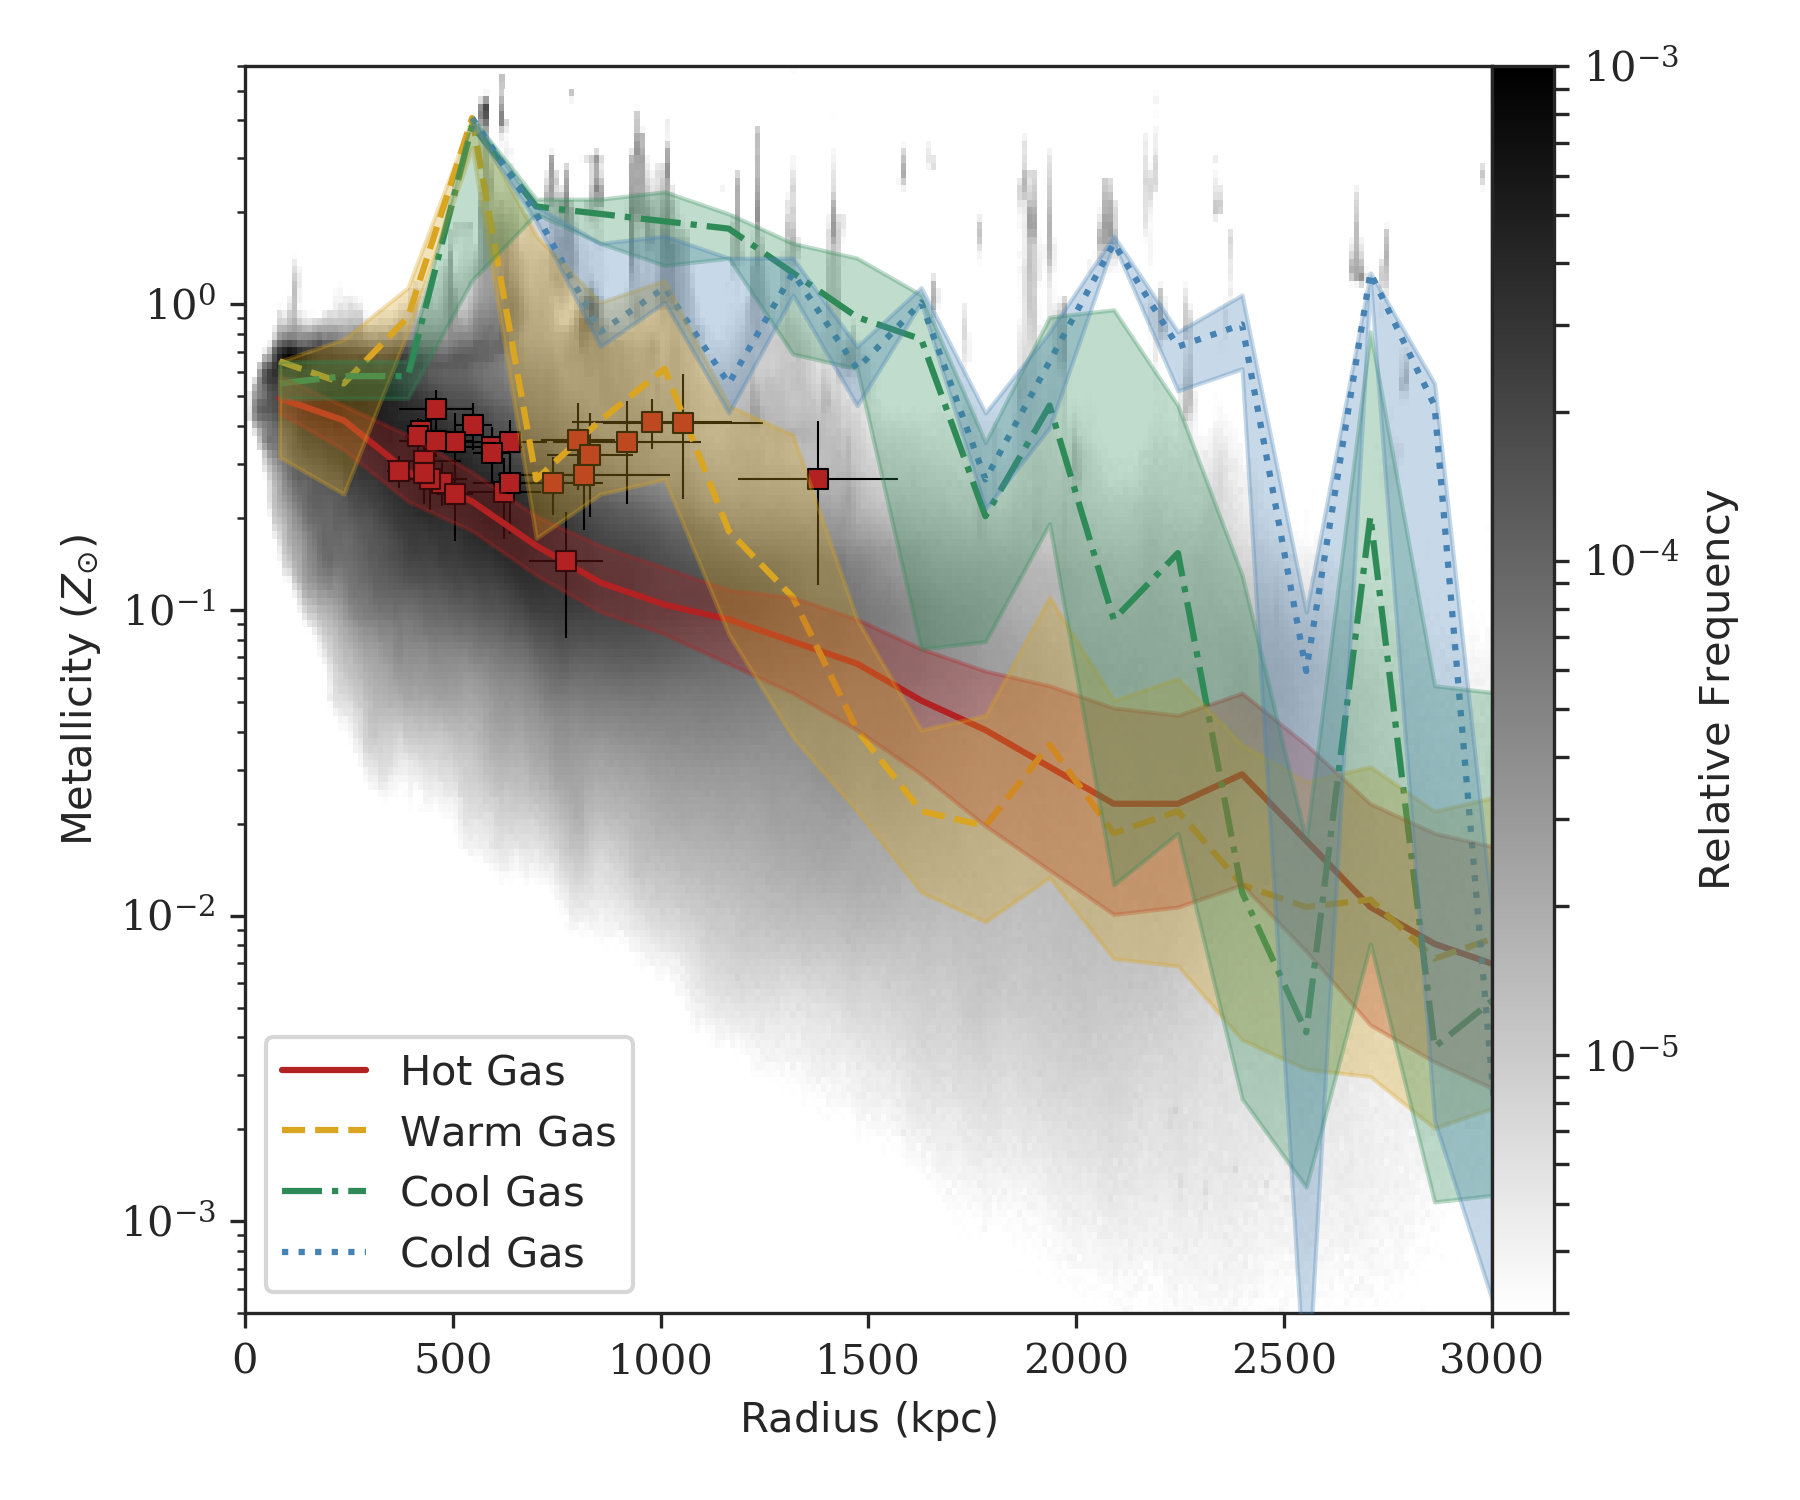
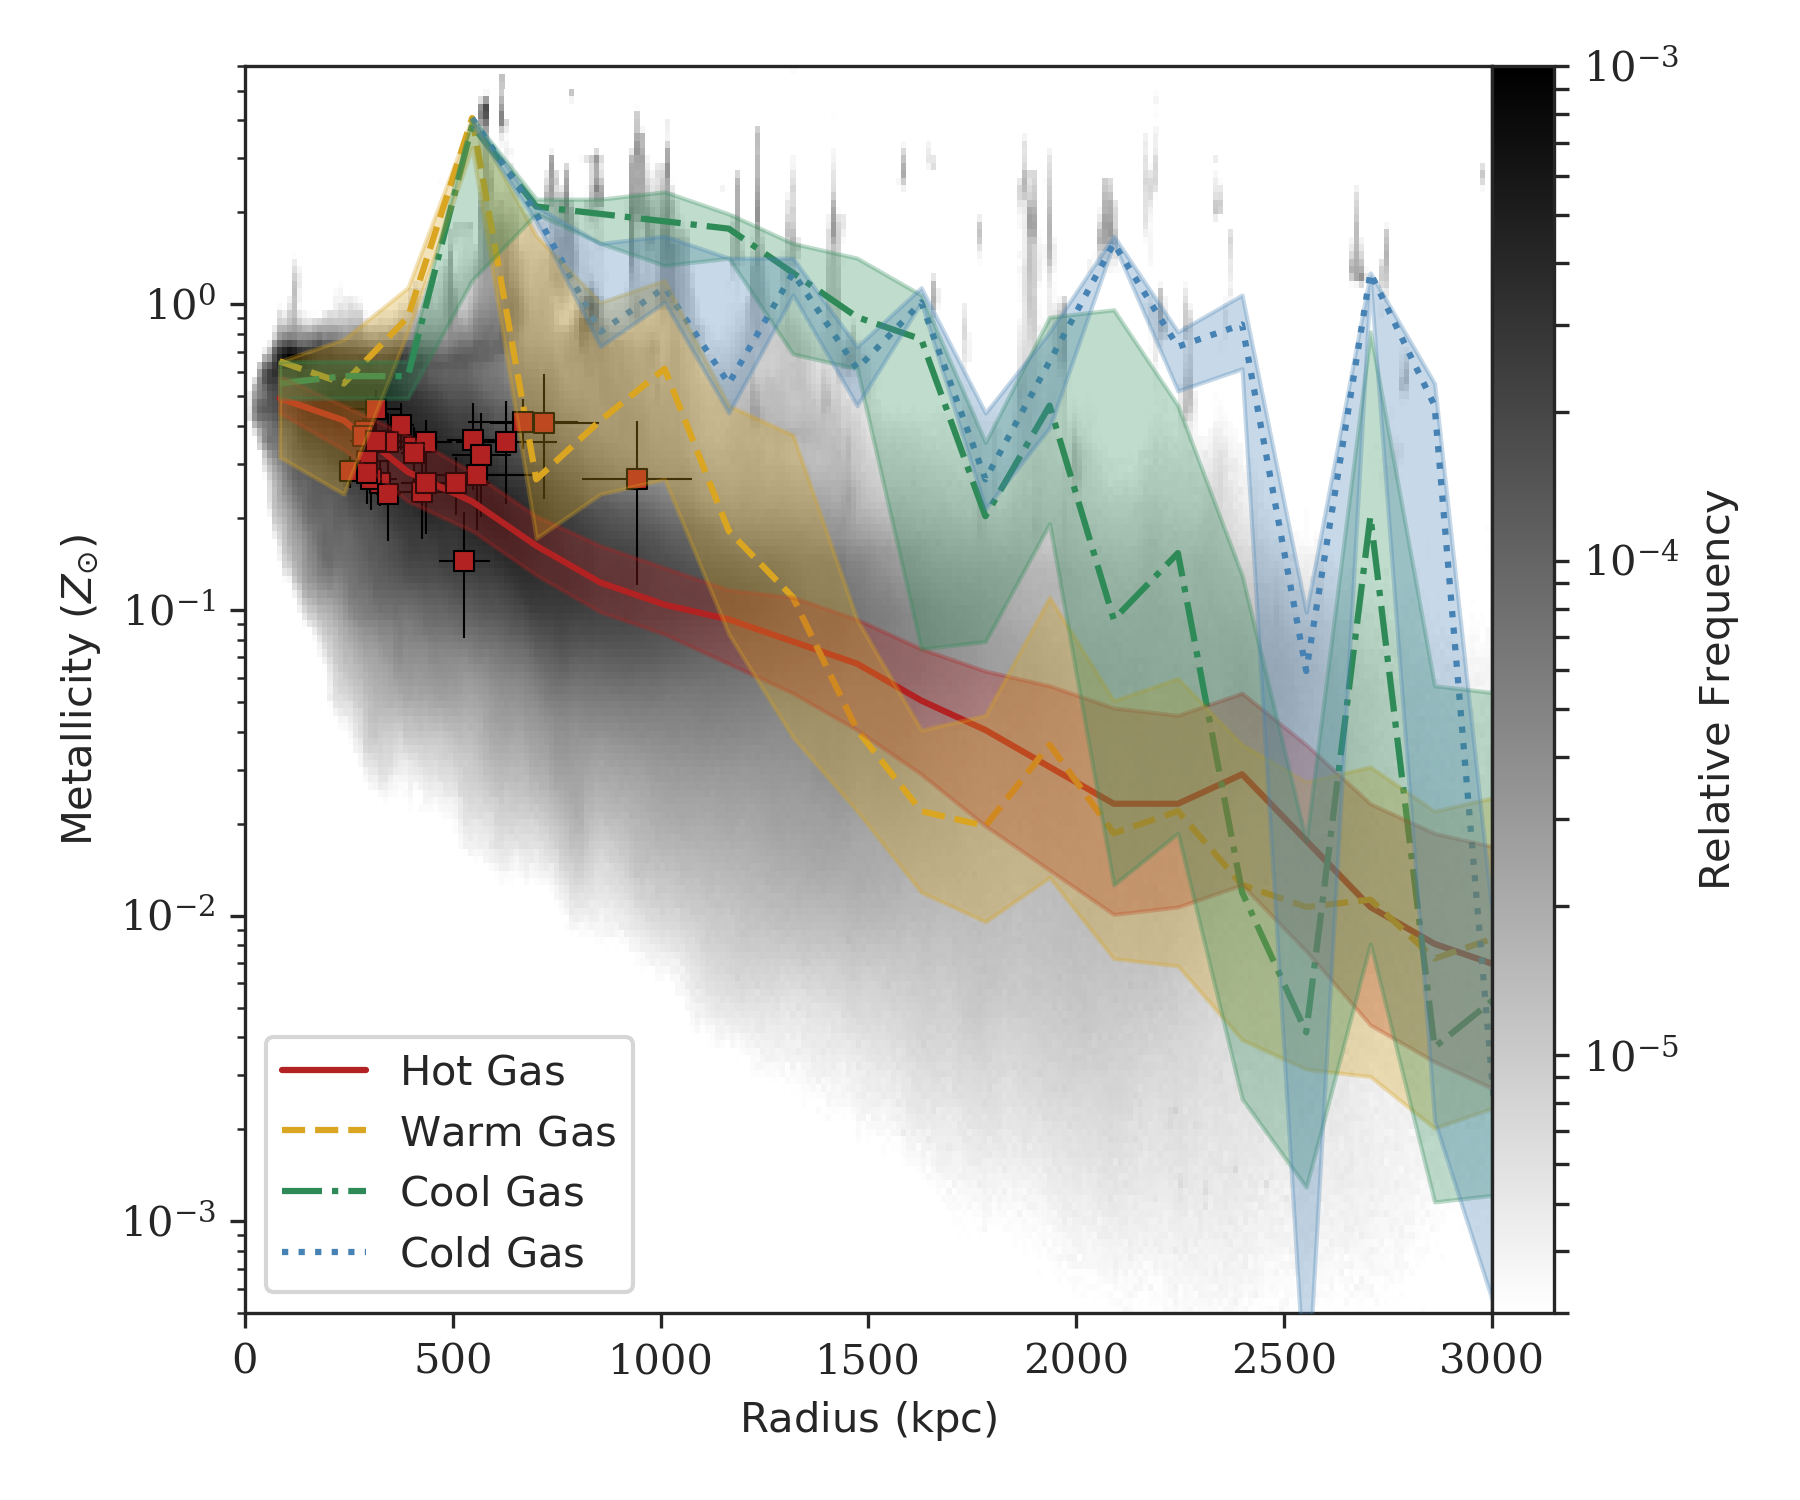
updating figures with r200

diff --git a/plot_multipanel_halo_ion.py b/plot_multipanel_halo_ion.py
@@ -61,12 +61,17 @@ def multipanel_ion_plot(sim, output, ion_list, plot_type, bin_type, do_colormesh
         linestyles = ['solid', 'dashed', 'dashdot']
     elif bin_type == 'dist':
         plot_bins = ['dist_1', 'dist_2', 'dist_3', 'dist_4']
+#        plot_bins = ['dist_5', 'dist_3', 'dist_4']
         plot_labels = ['$\mathrm{r} < 0.5 \mathrm{R}_{\mathrm{vir}}$', \
                        '$ 0.5 \mathrm{R}_{\mathrm{vir}} < \mathrm{r} < \mathrm{R}_{\mathrm{vir}}$', \
                        '$ \mathrm{R}_{\mathrm{vir}} < \mathrm{r} < 2 \mathrm{R}_{\mathrm{vir}}$' ,\
                        '$ 2 \mathrm{R}_{\mathrm{vir}} < \mathrm{r} < 3 \mathrm{R}_{\mathrm{vir}}$']
+ #       plot_labels = ['$\mathrm{r} < \mathrm{R}_{200}$', \
+  #                     '$\mathrm{R}_{200} < \mathrm{r} < 2 \mathrm{R}_{200}$', \
+   #                    '$\mathrm{r} > 2 \mathrm{R}_{200}$']
+
         linestyles = ['solid', 'dashed', 'dashdot', 'dotted']
-        
+    #    linestyles = ['solid', 'dashed', 'dotted']
     fig, figax = plt.subplots(nrows = nrows, ncols = ncols, figsize=(3.5*ncols, 3.2*nrows), sharex = True, sharey = sharey)
     
     for i, ion_name in enumerate(ion_list):
@@ -97,10 +102,10 @@ def multipanel_ion_plot(sim, output, ion_list, plot_type, bin_type, do_colormesh
                 counts += ion_counts
                 ion_counts = ion_counts.reshape(799, 799)
                 ion_counts = load_combined_counts(ion, np.append(combined_output_list, output), pbin)
-                if pbin == 'dist_4':
-                    bin_max = 250
-                else: 
-                    bin_max = 300
+#                if pbin == 'dist_4':
+ #                   bin_max = 250
+  #              else: 
+                bin_max = 300
                 ipd.append_median_profile(ax, xbins[:-1], ybins[:-1], ion_counts.T, color = color, linestyle = pline, \
                                           label = plabel, alpha = 0.3, xmin = 0, xmax = bin_max, centered = True)
 
@@ -130,7 +135,6 @@ def multipanel_ion_plot(sim, output, ion_list, plot_type, bin_type, do_colormesh
 
         elif plot_type == 'cfrac':
             ax.set_ylim(0, 1.05)
-            sns.set_style('ticks', {'axes.grid': True})
             if row == 0 and col == 0:
                 ax.legend()
 
@@ -146,8 +150,8 @@ def multipanel_ion_plot(sim, output, ion_list, plot_type, bin_type, do_colormesh
         
 
 
-sim = sys.argv[1]
-output = int(sys.argv[2])
+#sim = sys.argv[1]
+#output = int(sys.argv[2])
 
 plot_type_list = ['cfrac', 'column']
 #plot_type_list = ['column']
@@ -158,9 +162,16 @@ ion_list = ['H I', 'C IV', 'O VI']
 ion_list = ['H I', 'C IV', 'O VI']
 
 
-for plot_type in plot_type_list:
-    multipanel_ion_plot(sim, output, ion_list, plot_type, 'mass')
-    if sim == 'romulusC':
-        multipanel_ion_plot(sim, output, ion_list, plot_type, 'dist', combine = True, combined_output_list = [3697])
+#for plot_type in plot_type_list:
+ #   multipanel_ion_plot(sim, output, ion_list, plot_type, 'mass')
+  #  if sim == 'romulusC':
+   #     multipanel_ion_plot(sim, output, ion_list, plot_type, 'dist', combine = False, combined_output_list = [3360, 3697])
 
-        
+sim = 'romulusC'
+output = 3035
+plot_type = 'cfrac'
+multipanel_ion_plot(sim, output, ion_list, plot_type, 'dist', combine = False)
+
+output = 3360
+plot_type = 'column'
+multipanel_ion_plot(sim, output, ion_list, plot_type, 'dist', combine = True, combined_output_list = [3697])

diff --git a/generate_halo_combined_column_data.py b/generate_halo_combined_column_data.py
@@ -4,7 +4,7 @@ import sys
 import os
 
 import ion_plot_definitions as ipd
-
+import romulus_analysis_helper as rom
 
 def combine_halo_column_densities(sim, output, ion_list, rmax = 300, mask = None):
 
@@ -18,14 +18,14 @@ def combine_halo_column_densities(sim, output, ion_list, rmax = 300, mask = None
     halo_list = halo_props['halo_id'].value
     mstar_list = halo_props['mstar'].value
     dist_list = halo_props['dist_to_cluster'].value
-    cluster_rvir = halo_props['rvir'].value[0]
-
-
-    halo_mask = (mstar_list > 1e9) & (mstar_list < 1e12) 
+#    cluster_rvir = halo_props['rvir'].value[0]
+    cluster_rvir = rom.get_romulusC_r200(output)
+    print(cluster_rvir)
+    halo_mask = (mstar_list >= 1e9) & (mstar_list < 1e12) 
     if mask == 'high_mass':
         halo_mask = (mstar_list >= 1e10) & (mstar_list <= 1e12)
     if sim == 'romulusC':
-        halo_mask = halo_mask & (dist_list < 3.0 * cluster_rvir)
+        halo_mask = halo_mask & (dist_list < 4.0 * cluster_rvir)
     halo_list = halo_list[halo_mask]
     mstar_list = mstar_list[halo_mask]
     dist_list = dist_list[halo_mask]
@@ -41,6 +41,7 @@ def combine_halo_column_densities(sim, output, ion_list, rmax = 300, mask = None
         d2_r = np.array([])
         d3_r = np.array([])
         d4_r = np.array([])
+        d5_r = np.array([])
 
         lowm_c = np.array([])
         midm_c = np.array([])
@@ -50,6 +51,7 @@ def combine_halo_column_densities(sim, output, ion_list, rmax = 300, mask = None
         d2_c = np.array([])
         d3_c = np.array([])
         d4_c = np.array([])
+        d5_c = np.array([])
         
         num_low = 0
         num_med = 0
@@ -93,9 +95,13 @@ def combine_halo_column_densities(sim, output, ion_list, rmax = 300, mask = None
                     d3_r = np.concatenate((d3_r, r_arr))
                     d3_c = np.concatenate((d3_c, cdens_arr))
 
-                elif dtc >= 2*cluster_rvir:
+                elif dtc >= 2*cluster_rvir: 
                     d4_r = np.concatenate((d4_r, r_arr))
                     d4_c = np.concatenate((d4_c, cdens_arr))
+
+                if dtc < cluster_rvir:
+                    d5_r = np.concatenate((d5_r, r_arr))
+                    d5_c = np.concatenate((d5_c, cdens_arr))
         print('analyzed %i low-mass, %i med-mass, and %i high-mass galaxies'%(num_low, num_med, num_high))
 
         name_list = ['low_mass', 'med_mass', 'high_mass']
@@ -104,9 +110,9 @@ def combine_halo_column_densities(sim, output, ion_list, rmax = 300, mask = None
         col_list = [lowm_c, midm_c, highm_c]
         
         if sim == 'romulusC':
-            name_list = np.append(name_list, ['dist_1', 'dist_2', 'dist_3', 'dist_4'])
-            radius_list = np.append(radius_list, [d1_r, d2_r, d3_r, d4_r])
-            col_list = np.append(col_list, [d1_c, d2_c, d3_c, d4_c])
+            name_list = np.append(name_list, ['dist_1', 'dist_2', 'dist_3', 'dist_4', 'dist_5'])
+            radius_list = np.append(radius_list, [d1_r, d2_r, d3_r, d4_r, d5_r])
+            col_list = np.append(col_list, [d1_c, d2_c, d3_c, d4_c, d5_c])
 
         ion_out = ion.replace(" ", "")
         for dcol, drad, dname in zip(col_list, radius_list, name_list):

diff --git a/find_halos_with_stars.py b/find_halos_with_stars.py
@@ -1,6 +1,7 @@
 import matplotlib
 matplotlib.use('Agg')
 import tangos 
+import tangos_properties_tremmel
 import numpy as np
 import pylab as plt
 import h5py as h5
@@ -34,6 +35,7 @@ def find_halos_with_stars(timestep, output):
     MColdGas = []
     MHIGas = []
     Rvir = []
+    R200 = []
     center = []
 
     cluster_center = halos[0]['shrink_center']
@@ -49,6 +51,8 @@ def find_halos_with_stars(timestep, output):
             print(i, mstar/1e12)
             halo_id.append(i)
             Rvir.append(halo['max_radius'])
+            r200 = halo.calculate('radius(200)')
+            R200.append(r200)
             center.append(halo['shrink_center'])
             dist_to_cluster.append(np.linalg.norm(np.subtract(halo['shrink_center'], cluster_center)))
             Mvir.append(halo['Mvir'])
@@ -61,6 +65,7 @@ def find_halos_with_stars(timestep, output):
     h5file = h5.File('/nobackup/ibutsky/data/romulusC_halo_data_%i'%(output), 'w')
     
 
+    h5file.create_dataset('r200', data = np.array(R200))
     h5file.create_dataset('halo_id', data = np.array(halo_id))
     h5file.create_dataset('rvir', data = np.array(Rvir))
     h5file.create_dataset('mvir', data = np.array(Mvir))
@@ -75,6 +80,9 @@ def find_halos_with_stars(timestep, output):
 
 timestep_list = [12, 13, 14, 15, 16]
 output_list = [636, 672, 768, 864, 960]
+
+timestep_list = [49, 56, 61]
+output_list = [3035, 3360, 3697]
                                
 for timestep, output in zip(timestep_list, output_list):
     find_halos_with_stars(timestep, output)

diff --git a/plot_projection_halos.py b/plot_projection_halos.py
@@ -17,7 +17,7 @@ trident.add_ion_fields(ds, ions=['O VI'])
 # load and initialize halo properties
 halo_data = h5.File('/nobackup/ibutsky/data/romulusC_halo_data_%i'%(output), 'r')
 centers = halo_data['center'].value
-rvirs = halo_data['rvir'].value
+rvirs = halo_data['r200'].value
 mvirs = halo_data['mvir'].value
 mstars = halo_data['mstar'].value
 cluster_center = (centers[0]/ds.length_unit).d
@@ -36,7 +36,7 @@ print(dx, dz)
 
 zfield = ('gas', 'O_p5_number_density')
 p = yt.ProjectionPlot(ds, 'y', zfield, weight_field = None, \
-                      width = (6000, 'kpc'), center = cluster_center, fontsize = 18)
+                      width = (6000, 'kpc'), center = cluster_center, fontsize = 22)
 
 
 

diff --git a/ion_plot_definitions.py b/ion_plot_definitions.py
@@ -46,7 +46,7 @@ def column_plot_ylims(ion):
         if ion == 'HI':
                 ylims = (3e12, 1e15)
         elif ion == 'OVI':
-                ylims = (1e12, 7e14)
+                ylims = (3e11, 7e14)
         elif ion == 'MgII':
                 ylims = (1e2, 1e15)
         elif ion == 'CII':
@@ -54,7 +54,7 @@ def column_plot_ylims(ion):
         elif ion == 'CIII':
                 ylims = (9e7, 1e12)
         elif ion == 'CIV':
-                ylims = (2e10, 1e13)
+                ylims = (2e9, 1e13)
         elif ion == 'SiII':
                 ylims = (1e2, 9e6)
         elif ion == 'SiIII':

diff --git a/plot_phase_plot.py b/plot_phase_plot.py
@@ -36,7 +36,8 @@ def plot_metallicity_radius(append_profiles = False, output = 3035, append_obser
                                        cbar_label = cbar_label, xscale = xscale, cmap = cmap, data_cut = data_cut)
 
     if append_observations:
-        rvir = rom.get_romulus_rvir('romulusC', output)
+        #rvir = rom.get_romulus_rvir('romulusC', output)
+        rvir = rom.get_romulusC_r200(output)
         ipd.add_cluster_metallicity_observations(ax, color = 'firebrick', rvir = rvir)
 
     if append_profiles:

diff --git a/generate_halo_column_median_profiles.py b/generate_halo_column_median_profiles.py
@@ -19,7 +19,7 @@ def generate_ion_profiles(sim, output, ion_list, nbins = 100, rmax = 300, mask =
 
     bin_name_list = ['low_mass', 'med_mass', 'high_mass']
     if sim == 'romulusC':
-        bin_name_list = np.append(bin_name_list, ['dist_1', 'dist_2', 'dist_3', 'dist_4'])
+        bin_name_list = np.append(bin_name_list, ['dist_1', 'dist_2', 'dist_3', 'dist_4', 'dist_5'])
     
     for i, ion in enumerate(ion_list):
         ion_out = ion.replace(" ", "")

diff --git a/generate_halo_column_histograms.py b/generate_halo_column_histograms.py
@@ -26,7 +26,7 @@ def generate_ion_histograms(sim, output, ion_list, nbins = 800, rmax = 300):
 
     bin_name_list = ['low_mass', 'med_mass', 'high_mass']
     if sim == 'romulusC':
-        bin_name_list = np.append(bin_name_list, ['dist_1', 'dist_2', 'dist_3', 'dist_4'])
+        bin_name_list = np.append(bin_name_list, ['dist_1', 'dist_2', 'dist_3', 'dist_4', 'dist_5'])
     plot_names = ['xbins', 'ybins', 'counts']
 
     for i, ion in enumerate(ion_list):

diff --git a/romulus_analysis_helper.py b/romulus_analysis_helper.py
@@ -18,3 +18,12 @@ def get_romulus_rvir(sim, output):
     halo_props = load_romulus_halo_props(sim, output)
     rvirs = halo_props['rvir'].value
     return rvirs[0]
+
+
+def get_romulusC_r200(output):
+    if output == 3035:
+        return 810.0
+    elif output == 3360:
+        return 955.3
+    elif output == 3697:
+        return 1014.7 
